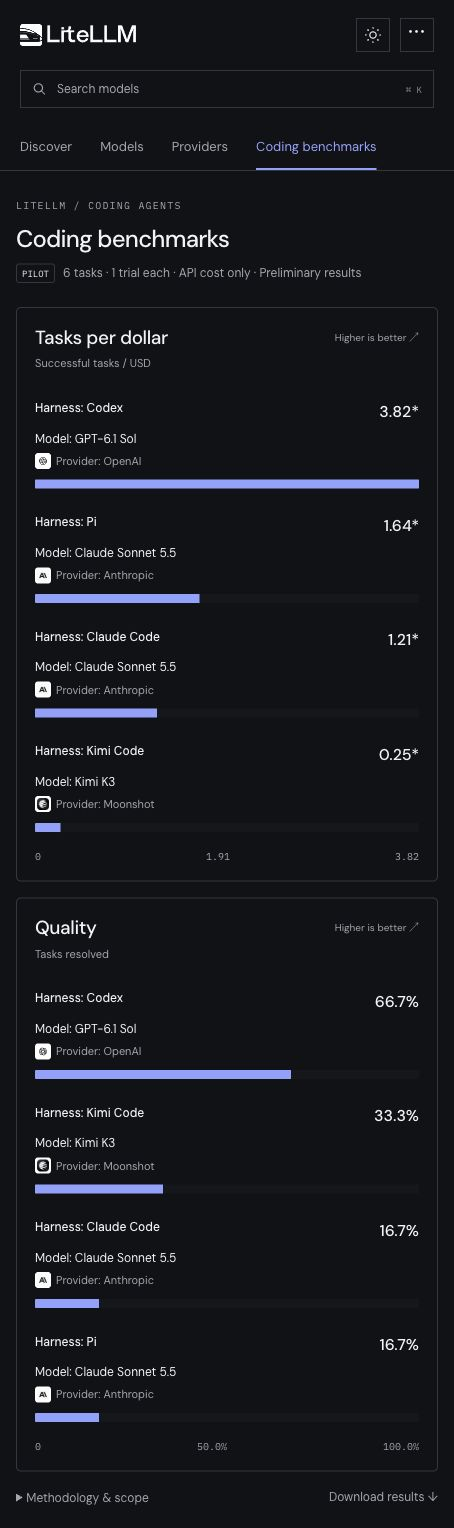
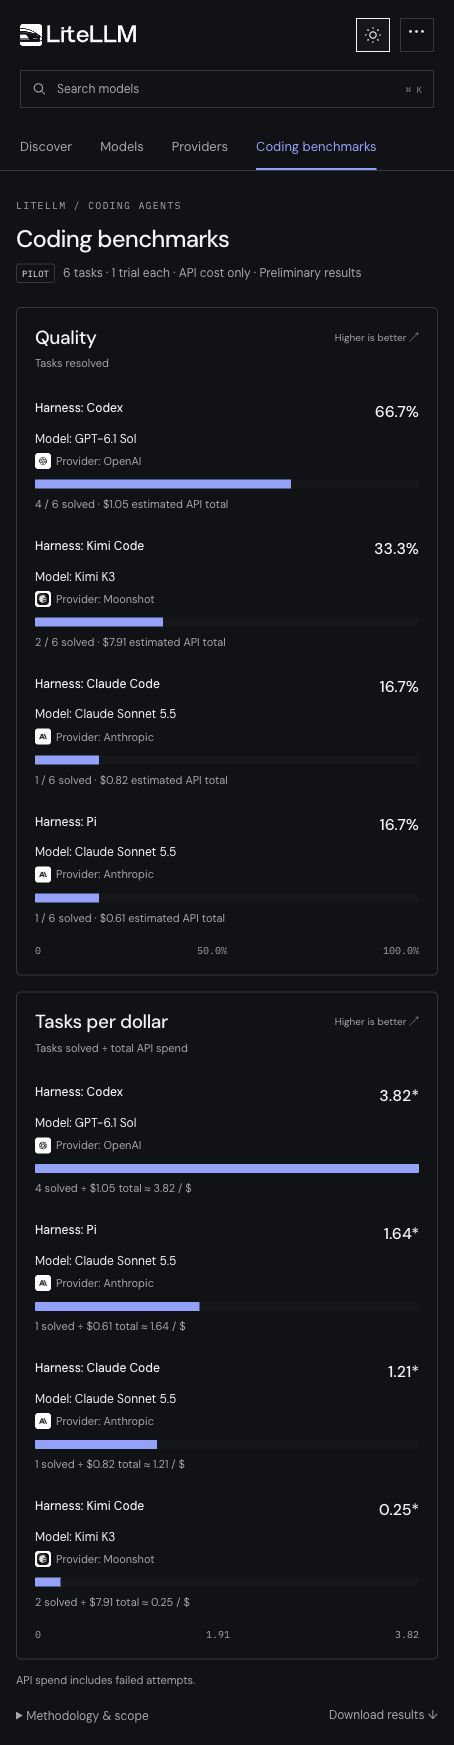
Lead coding-agent comparisons with quality and explicit cost arithmetic

diff --git a/src/CodingBenchmarks.svelte b/src/CodingBenchmarks.svelte
@@ -57,21 +57,6 @@
     .filter((run) => run.complete);
   $: charts = [
     {
-      id: "value",
-      title: "Tasks per dollar",
-      subtitle: "Successful tasks / USD",
-      max: Math.max(...rows.map((row) => row.tasksPerDollar ?? 0), 1),
-      rows: [...rows].sort(
-        (a, b) =>
-          (b.tasksPerDollar ?? -1) - (a.tasksPerDollar ?? -1) ||
-          harnessName(a.harness).localeCompare(harnessName(b.harness)) ||
-          a.modelName.localeCompare(b.modelName) ||
-          a.id.localeCompare(b.id),
-      ),
-      value: (row: (typeof rows)[number]) => row.tasksPerDollar,
-      format: (value: number) => value.toFixed(2),
-    },
-    {
       id: "quality",
       title: "Quality",
       subtitle: "Tasks resolved",
@@ -86,8 +71,25 @@
       value: (row: (typeof rows)[number]) => row.quality,
       format: (value: number) => value.toFixed(1) + "%",
     },
+    {
+      id: "value",
+      title: "Tasks per dollar",
+      subtitle: "Tasks solved ÷ total API spend",
+      max: Math.max(...rows.map((row) => row.tasksPerDollar ?? 0), 1),
+      rows: [...rows].sort(
+        (a, b) =>
+          (b.tasksPerDollar ?? -1) - (a.tasksPerDollar ?? -1) ||
+          harnessName(a.harness).localeCompare(harnessName(b.harness)) ||
+          a.modelName.localeCompare(b.modelName) ||
+          a.id.localeCompare(b.id),
+      ),
+      value: (row: (typeof rows)[number]) => row.tasksPerDollar,
+      format: (value: number) => value.toFixed(2),
+    },
   ];
   $: picked = rows.find((row) => row.id === selected);
+  const totalCost = (value: number) =>
+    "$" + value.toFixed(value > 0 && value < 0.01 ? 4 : 2);
   const usd = (value: number | null) =>
     value === null ? "Unavailable" : "$" + value.toFixed(4);
 </script>
@@ -171,6 +173,23 @@
                       : Math.min(100, (value / chart.max) * 100)) + "%"}
                   ></span></span
                 >
+                <span class="row-calculation">
+                  {#if chart.id === "quality"}
+                    {row.passed} / {row.attempts} solved · {row.cost === null
+                      ? "API cost unavailable"
+                      : totalCost(row.cost) +
+                        (row.costSource === "estimated" ? " estimated" : "") +
+                        " API total"}
+                  {:else if row.tasksPerDollar !== null && row.cost !== null}
+                    {row.passed} solved ÷ {totalCost(row.cost)} total ≈ {row.tasksPerDollar.toFixed(
+                      2,
+                    )} / $
+                  {:else}
+                    {row.passed} solved · {row.cost === null
+                      ? "API cost unavailable"
+                      : totalCost(row.cost) + " total · value unavailable"}
+                  {/if}
+                </span>
               </button>
             {/each}
           </div>
@@ -187,6 +206,8 @@
       </section>
     {/each}
   </div>
+
+  <p class="spend-note">API spend includes failed attempts.</p>
 
   {#if picked}
     <aside class="run-detail" aria-label="Selected result">
@@ -417,6 +438,14 @@
     height: 100%;
     background: var(--hf-accent);
   }
+  .row-calculation {
+    display: block;
+    margin-top: 7px;
+    color: var(--hf-muted);
+    font-size: 11px;
+    line-height: 1.5;
+    font-variant-numeric: tabular-nums;
+  }
   .axis {
     display: flex;
     justify-content: space-between;
@@ -426,6 +455,11 @@
       10px "IBM Plex Mono",
       monospace;
     font-variant-numeric: tabular-nums;
+  }
+  .spend-note {
+    margin: 12px 0 0;
+    color: var(--hf-muted);
+    font-size: 11px;
   }
   .evidence {
     display: flex;

diff --git a/src/CodingBenchmarks.activity.test.ts b/src/CodingBenchmarks.activity.test.ts
@@ -146,7 +146,9 @@ afterEach(() => {
 describe("coding benchmark results", () => {
   it("should render two results charts without filters, recommendations or demo controls", async () => {
     await mount();
-    expect(panels()).toHaveLength(2);
+    expect(
+      panels().map((section) => section.getAttribute("aria-label")),
+    ).toEqual(["Quality comparison", "Tasks per dollar comparison"]);
     expect(document.getElementsByTagName("h1")[0].textContent).toBe(
       "Coding benchmarks",
     );
@@ -185,6 +187,43 @@ describe("coding benchmark results", () => {
     }
   });
 
+  it("should show whole-run costs under quality and the arithmetic behind value", async () => {
+    await mount();
+    expect(chartRows("Quality")[1].textContent).toContain(
+      "2 / 6 solved · $8.00 estimated API total",
+    );
+    expect(chartRows("Tasks per dollar").at(-1)?.textContent).toContain(
+      "2 solved ÷ $8.00 total ≈ 0.25 / $",
+    );
+    expect(chartRows("Tasks per dollar")[1].textContent).toContain(
+      "1 solved ÷ $0.50 total ≈ 2.00 / $",
+    );
+    expect(panel("Tasks per dollar").textContent).toContain(
+      "Tasks solved ÷ total API spend",
+    );
+    expect(document.body.textContent).toContain(
+      "API spend includes failed attempts.",
+    );
+  });
+
+  it("should show zero total cost without dividing by zero", async () => {
+    await mount({
+      ...fixture,
+      runs: fixture.runs.map((run) =>
+        run.id === "codex" ? { ...run, apiCostUsd: 0 } : run,
+      ),
+    });
+    expect(chartRows("Quality")[0].textContent).toContain(
+      "4 / 6 solved · $0.00 estimated API total",
+    );
+    const row = chartRows("Tasks per dollar").at(-1)!;
+    expect(row.textContent).toContain(
+      "4 solved · $0.00 total · value unavailable",
+    );
+    expect(row.textContent).not.toContain("÷");
+    expect(row.textContent).not.toContain("Infinity");
+  });
+
   it("should keep unmeasured cost unavailable and exclude incomplete rows without creating a time chart", async () => {
     await mount({
       ...fixture,
@@ -197,6 +236,15 @@ describe("coding benchmark results", () => {
     expect(order("Tasks per dollar").at(-1)).toBe("Harness: Codex");
     expect(chartRows("Tasks per dollar").at(-1)?.textContent).toContain("—");
     expect(order("Quality")[0]).toBe("Harness: Codex");
+    expect(chartRows("Quality")[0].textContent).toContain(
+      "4 / 6 solved · API cost unavailable",
+    );
+    expect(chartRows("Tasks per dollar").at(-1)?.textContent).toContain(
+      "4 solved · API cost unavailable",
+    );
+    expect(chartRows("Tasks per dollar").at(-1)?.textContent).not.toContain(
+      "÷",
+    );
     expect(
       panels().some(
         (section) =>

diff --git a/scripts/provider-logos.test.ts b/scripts/provider-logos.test.ts
@@ -35,6 +35,7 @@ describe("audited provider artwork", () => {
 
   it("should show Baseten's official artwork and resolve aliases case-insensitively", () => {
     expect(getProviderLogo("Baseten")).toMatch(/\/upstream\/baseten\./);
+    expect(getProviderLogo("OPENCODE_GO")).toBe("/provider-logos/upstream/opencode_go.svg");
     for (const [alias, provider] of [
       ["anthropic_text", "anthropic"],
       ["bedrock_mantle", "bedrock"],

diff --git a/public/provider-logos/NOTICE.md b/public/provider-logos/NOTICE.md
@@ -1,10 +1,12 @@
 # Provider artwork attribution
 
-The active mapping is `src/providerLogos.json`. The October 24, 2026 audit covers all 214 provider identifiers in LiteLLM's endpoint-support and model-price catalogs, plus seven compatibility aliases. Assets in `upstream/` come from provider-owned websites, documentation, repositories, or provider-submitted integrations. [sources.json](./sources.json) records each source URL, official homepage, verification date, any transformations, and the SHA-256 of the bundled file. Existing artwork retained from LobeHub was checked against the corresponding upstream brand.
+The active mapping is `src/providerLogos.json`. The October 24, 2026 audit covers all 215 provider identifiers in LiteLLM's endpoint-support and model-price catalogs, plus seven compatibility aliases. Assets in `upstream/` come from provider-owned websites, documentation, repositories, or provider-submitted integrations. [sources.json](./sources.json) records each source URL, official homepage, verification date, any transformations, and the SHA-256 of the bundled file. Existing artwork retained from LobeHub was checked against the corresponding upstream brand.
 
 Six entries intentionally retain labeled initials: `auto_router`, `custom`, `custom_openai`, and `openai_like` describe generic adapters rather than independent brands; `infinity` and `pg_vector` have no published logo in their upstream repositories or documentation. LlamaGate's website was unavailable during the audit; its icon is the globe supplied by its maintainer in the linked Dify integration, not a newly invented brand mark.
 
 When adding a provider, add its verified artwork and provenance together, update the shared mapping and the audited catalog fixture in `scripts/provider-logo-catalog.json`, and run `npm test`, `npm run check`, and `npm run build`. The build validates the live provider lists, so an unaudited provider or a missing bundled file fails before deployment. All image URLs remain local; visitors do not contact upstream sites to load these marks.
+
+OpenCode Go uses the unchanged square light brand mark from the official OpenCode repository, pinned to the commit recorded in `sources.json`.
 
 ## Previously bundled artwork
 
